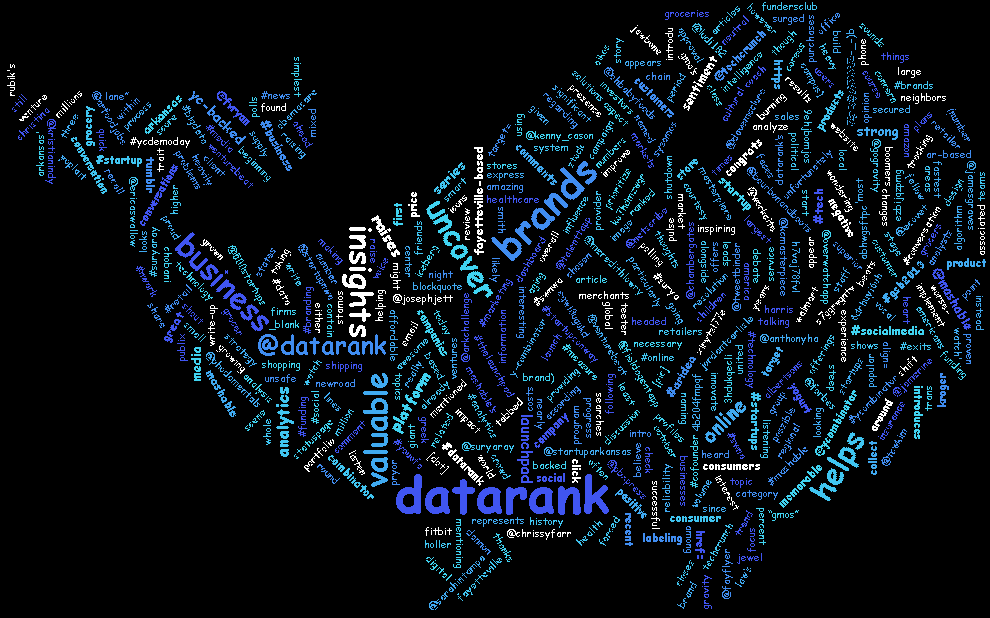
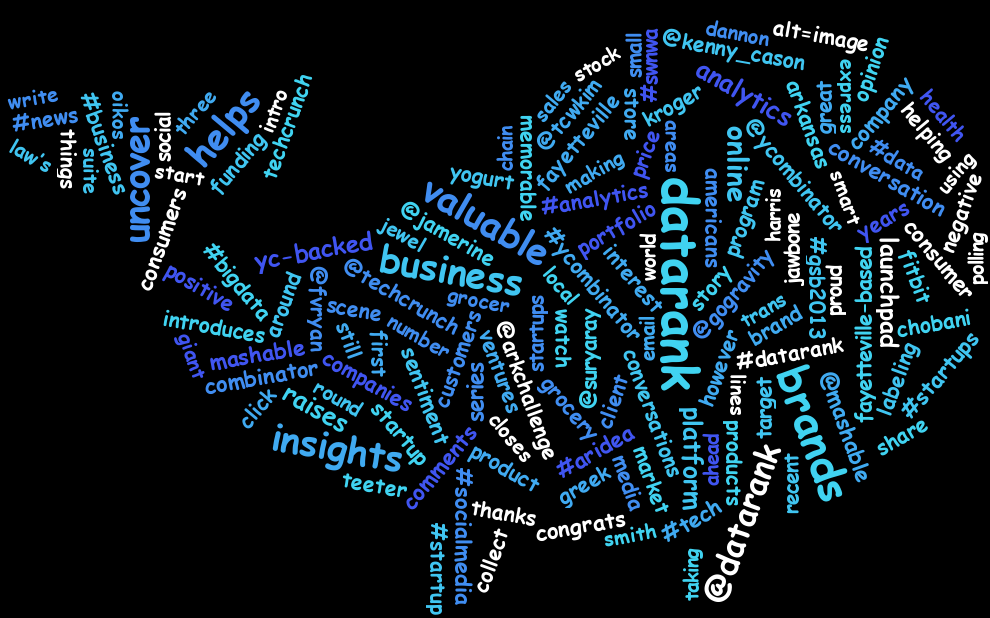
render the rotated text into the buffered image
this improves the image quality and removes intermediate step

Changed region(s): [[0.0, 0.0, 1.0, 1.0]]

diff --git a/kumo-core/src/main/java/com/kennycason/kumo/Word.java b/kumo-core/src/main/java/com/kennycason/kumo/Word.java
@@ -5,7 +5,15 @@ import com.kennycason.kumo.collide.Collidable;
 import com.kennycason.kumo.image.CollisionRaster;
 
 import java.awt.*;
+import java.awt.font.LineMetrics;
+import java.awt.geom.Rectangle2D;
 import java.awt.image.BufferedImage;
+import java.io.File;
+import java.io.IOException;
+import java.util.concurrent.atomic.AtomicLong;
+import java.util.logging.Level;
+import java.util.logging.Logger;
+import javax.imageio.ImageIO;
 
 /**
  * Created by kenny on 6/29/14.
@@ -25,28 +33,77 @@ public class Word implements Collidable {
     private CollisionRaster collisionRaster;
 
     public Word(final String word,
-                final Color color,
-                final FontMetrics fontMetrics,
-                final CollisionChecker collisionChecker) {
+            final Color color,
+            final FontMetrics fontMetrics,
+            final CollisionChecker collisionChecker,
+            final double theta) {
         this.word = word;
         this.color = color;
         this.collisionChecker = collisionChecker;
+        this.bufferedImage = render(fontMetrics, word, theta, color);
+
+        this.collisionRaster = new CollisionRaster(this.bufferedImage);
+    }
+
+    static AtomicLong n = new AtomicLong();
+
+    private BufferedImage render(final FontMetrics fontMetrics, final String text, double theta, final Color color1) {
         // get the height of a line of text in this font and render context
         final int maxDescent = fontMetrics.getMaxDescent();
         // get the advance of my text in this font and render context
-        final int width = fontMetrics.stringWidth(word);
+        //TODO: stringWidth is not allways correct e.g. 
+        /*
+        for (int i = 0; i <= 360; i += 5) {
+            Word word = new Word("test test IIII", Color.red, new BufferedImage(
+                    10, 10, BufferedImage.TYPE_4BYTE_ABGR
+            ).createGraphics().getFontMetrics(
+                    new Font("Arial", 0, 40)
+            ), null, Math.PI * i / 180.0);
 
-        this.bufferedImage = new BufferedImage(width, fontMetrics.getHeight(), BufferedImage.TYPE_INT_ARGB);
-        final Graphics2D graphics = (Graphics2D) this.bufferedImage.getGraphics();
+            try {
+                File file = new File("output\\w" + i + ".png");
+                ImageIO.write(word.getBufferedImage(), "png", file);
+            } catch (IOException ex) {
+                java.util.logging.Logger.getLogger(Word.class.getName()).log(Level.SEVERE, null, ex);
+            }
+        }
+        
+        */
+        final int width = fontMetrics.stringWidth(text);
+
+        // add 2 pixels space for antialiasing
+        final int height = fontMetrics.getHeight() + 2;
+
+        final double sin = Math.abs(Math.sin(theta));
+        final double cos = Math.abs(Math.cos(theta));
+
+        final int rotatedWidth = (int) Math.floor(width * cos + height * sin);
+        final int rotatedHeight = (int) Math.floor(height * cos + width * sin);
+
+        BufferedImage image = new BufferedImage(
+                rotatedWidth, rotatedHeight, BufferedImage.TYPE_INT_ARGB
+        );
+        final Graphics2D graphics = (Graphics2D) image.getGraphics();
+        final int centerX = rotatedWidth / 2;
+        final int centerY = rotatedHeight / 2;
+
+        // we rotate the word around the center of the image
+        graphics.rotate(theta, centerX, centerY);
+
         graphics.setRenderingHint(
                 RenderingHints.KEY_TEXT_ANTIALIASING,
-                RenderingHints.VALUE_TEXT_ANTIALIAS_LCD_HRGB);
-        graphics.setColor(color);
+                RenderingHints.VALUE_TEXT_ANTIALIAS_LCD_HRGB
+        );
+        
+        graphics.setColor(color1);
         graphics.setFont(fontMetrics.getFont());
+        graphics.drawString(
+                text, 
+                centerX - width / 2, 
+                centerY + (fontMetrics.getHeight() - maxDescent) / 2
+        );
 
-        graphics.drawString(word, 0, fontMetrics.getHeight() - maxDescent);
-
-        this.collisionRaster = new CollisionRaster(this.bufferedImage);
+        return image;
     }
 
     public BufferedImage getBufferedImage() {
@@ -86,14 +143,14 @@ public class Word implements Collidable {
 
     @Override
     public String toString() {
-        return "WordRectangle{" +
-                "word='" + word + '\'' +
-                ", color=" + color +
-                ", x=" + position.x +
-                ", y=" + position.y +
-                ", width=" + bufferedImage.getWidth() +
-                ", height=" + bufferedImage.getHeight() +
-                '}';
+        return "Word{"
+                + "word='" + word + '\''
+                + ", color=" + color
+                + ", x=" + position.x
+                + ", y=" + position.y
+                + ", width=" + bufferedImage.getWidth()
+                + ", height=" + bufferedImage.getHeight()
+                + '}';
     }
 
 }

diff --git a/kumo-core/src/main/java/com/kennycason/kumo/WordCloud.java b/kumo-core/src/main/java/com/kennycason/kumo/WordCloud.java
@@ -247,11 +247,8 @@ public class WordCloud {
         final float fontHeight = this.fontScalar.scale(frequency, 0, maxFrequency);
         final Font font = kumoFont.getFont().deriveFont(fontHeight);
         final FontMetrics fontMetrics = graphics.getFontMetrics(font);
-        final Word word = new Word(wordFrequency.getWord(), colorPalette.next(), fontMetrics, this.collisionChecker);
+        final Word word = new Word(wordFrequency.getWord(), colorPalette.next(), fontMetrics, this.collisionChecker, theta);
         
-        if (theta != 0.0) {
-            word.setBufferedImage(ImageRotation.rotate(word.getBufferedImage(), theta));
-        }
         if (padding > 0) {
             padder.pad(word, padding);
         }
